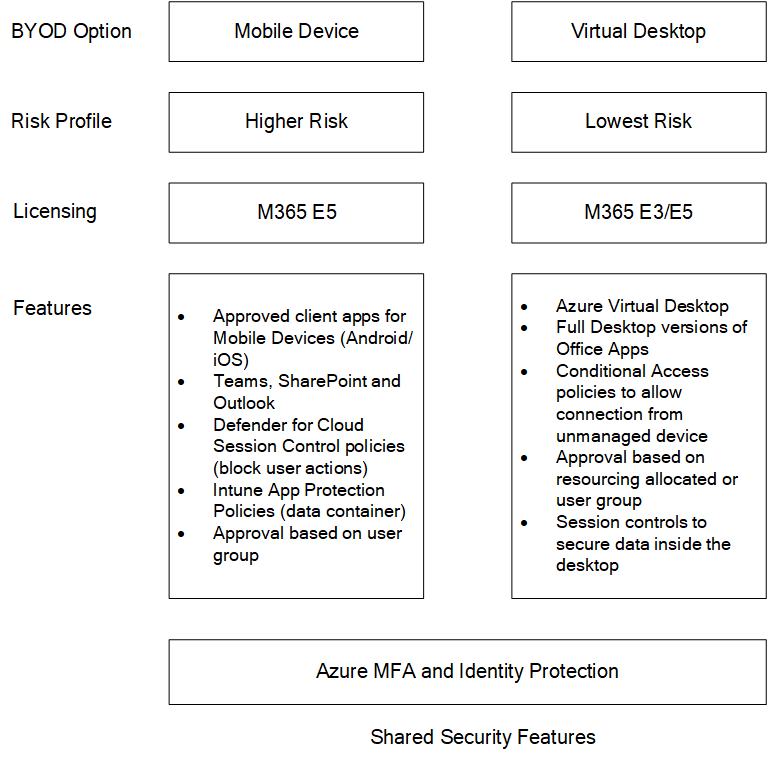
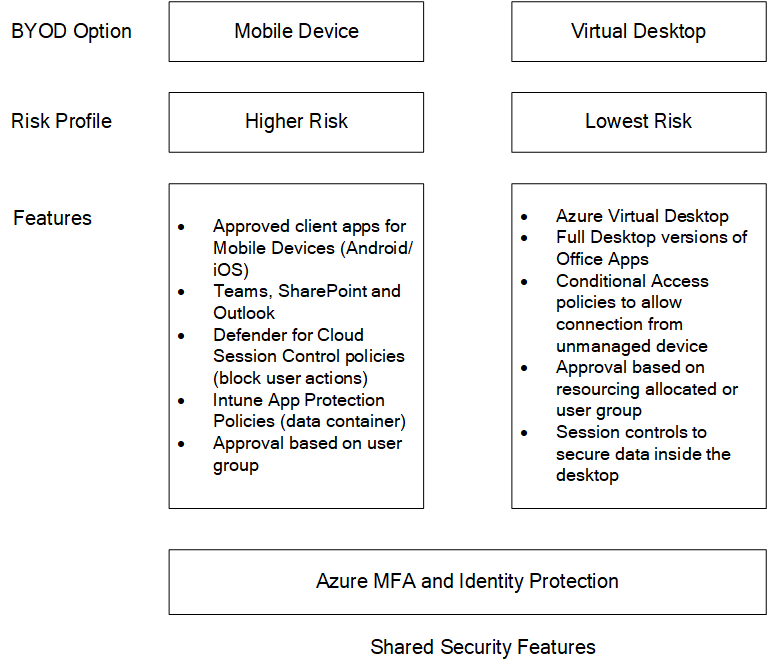
update based on DTA feedback

diff --git a/patterns/byod.md b/patterns/byod.md
@@ -22,7 +22,7 @@ This pattern suggests **two BYOD access options** dependent on the risk appetite
 
 Agencies adopting BYOD should perform their own risk assessments and follow ACSC guidance in regards to the requirements surrounding the platform and adequate separation between private and corporate data.
 
-It is not recommended to process or store sensitive data on non-corporately managed devices. For commonwealth entities, non-sensitive data is marked as OFFICIAL.
+It is not recommended to process or store sensitive or classified (OFFICIAL:Sensitive and above) data on non-corporately managed devices. For commonwealth entities, non-sensitive data is marked as OFFICIAL.
 
 This pattern does not discuss Agency policy surrounding the use of personally/privately-owed devices. The following guidance from the ACSC for OFFICIAL and PROTECTED BYOD implementation is:
 
@@ -36,16 +36,16 @@ The technical controls that are described in this document have been grouped int
 **Mobile device access**
 
 * Allows access to some Microsoft 365 applications from personal mobile devices
-* Granular control of user policies, session controls using Microsoft Defender for Cloud Apps when protecting browser apps (requires E5 license level)
-* Intune Application Protection policies to enforce secure containerisation for company data  (available at E3 license level)
+* Granular control of user policies, session controls using Microsoft Defender for Cloud Apps when protecting browser apps
+* Intune Application Protection policies to enforce secure containerisation for company data
 * Conditional Access enforced Agency approved apps for Mobile Devices
 * Suits personas for ad-hoc access to Teams, SharePoint and Outlook on Android and iOS phone or tablet devices
 * Agencies to risk assess for their environment and data classification
-* This BYOD option is not recommended for use cases involving access to sensitive information.
+* This BYOD option is not recommended for use cases involving access to sensitive or classified information.
 
 **Virtual desktop**
 
-* Available for use with Microsoft 365 E3 or E5 licensing levels (requires Azure subscription)
+* Azure virtual desktop requires an Azure subscription
 * Uses Azure Virtual Desktop (AVD) to provide a desktop experience that closely matches the corporate desktop, including legacy application access
 * Supports any client device able to access AVD
 * Lower security risk approach compared to mobile device, but offers greater use cases
@@ -59,12 +59,9 @@ The technical controls that are described in this document have been grouped int
 
 The following represent the assumptions when considering to deploy either BYOD options into an existing blueprint deployment:
 
-* Protected Utility blueprint deployed in a cloud-only or hybrid pattern.
-* For enhanced security, the mobile device option requires Defender for Cloud Apps, which requires Microsoft 365 E5.
-* Licensing is available for Windows 10 Enterprise multi-session, Windows 10 Enterprise and FSLogix profile management.
-  * Microsoft 365 E3, E5
-  * Windows E3, E5
-  * Azure subscription
+* Protected Utility blueprint deployed in a cloud-only or hybrid pattern
+* Licensing as per the DTA PROTECTED utility
+* Azure Virtual Desktop requires a suitable Azure subscription
 
 ## Prerequisites
 
@@ -88,8 +85,8 @@ Hybrid:
 
 Options | Use-Cases | Complexity to implement | Risk considerations 
 --- | --- | ---| ---
- Mobile device access (Option 1) | Provides ad-hoc access on the road and in the office to email, Teams and SharePoint from personally owned mobile devices such as iOS and Android devices. <br />Use-case provides some offline access if connectivity is limited.<br /><br />Not suitable for sensitive data. | Easiest             | Inability to enforce device security controls<br /><br />Limited ability to check compliance for zero trust<br /><br />Lost phone, potential inability to remote data wipe as phone is not fully managed 
- Virtual desktop (Option 2) | Provided through the Azure Virtual Desktop service, this provides a full Windows working environment similar to the corporate desktop. Access is available from a user's personal Windows or Mac device to access the virtual desktop.<br /><br />Remote working within another government Agency or partner environment.<br /><br />Legacy or non-cloud corporate applications (hybrid) can operate with this use-case.<br /><br />Use case requires always-on Internet connection. | More difficult | Greater compliance with PROTECTED-level ISM controls and the Essential Eight<br /><br />Underlying device used to access AVD, screen scraping and physical security 
+ Mobile device access (Option 1) | Provides ad-hoc access on the road and in the office to email, Teams and SharePoint from personally owned mobile devices such as iOS and Android devices. <br />Use-case provides some offline access if connectivity is limited.<br /><br />Not suitable for OFFICIAL:Sensitve and above (sensitive or classified data). | Easiest             | Inability to enforce device security controls<br /><br />Limited ability to check compliance for zero trust<br /><br />Lost phone, potential inability to remote data wipe as phone is not fully managed 
+ Virtual desktop (Option 2) | Provided through the Azure Virtual Desktop service, this provides a full Windows working environment similar to the corporate desktop. Access is available from a user's personal Windows or Mac device to access the virtual desktop.<br /><br />Remote working within another government Agency or partner environment.<br /><br />Legacy or non-cloud corporate applications (hybrid) can operate with this use-case.<br /><br />Use case requires always-on Internet connection. | More difficult | Greater compliance with PROTECTED-level ISM controls and the Essential Eight<br /><br />Screen shot/scraping and physical security (e.g. taking picture of the screen) is a residual risk 
 
 The following process can be followed to determine which pattern option to follow.
 
@@ -126,13 +123,13 @@ Note, refer to the [System Security Plan](https://desktop.gov.au/blueprint/secur
 | 0705    | When accessing an organisation system via a VPN connection, split tunnelling is disabled. | Not applicable                                               | Not applicable                                               |
 | 1082    | A mobile device usage policy is developed and implemented.   | Agency to address                                            | Agency to address                                            |
 | 1083    | Personnel are advised of the sensitivity or classification permitted for voice and data communications when using mobile devices. | Agency to address                                            | Agency to address                                            |
-| 0240    | Paging, Multimedia Message Service, Short Message Service or instant messaging apps are not used to communicate sensitive or classified data. | Implemented                                                  | Not applicable                                               |
+| 0240    | Paging, Multimedia Message Service, Short Message Service or instant messaging apps are not used to communicate sensitive or classified data. | Implemented through MAM-WE, cannot share data with native apps | Not applicable                                               |
 | 0866    | Sensitive or classified data is not viewed or communicated in public locations unless care is taken to reduce the chance of the screen of a mobile device being observed. | Agency to address                                            | Agency to address                                            |
 | 1644    | Sensitive or classified phone calls are not conducted in public locations unless care is taken to reduce the chance of conversations being overheard. | Agency to address                                            | Agency to address                                            |
 | 0871    | Mobile devices are kept under continual direct supervision when being actively used. | Agency to address                                            | Agency to address                                            |
 | 0870    | Mobile devices are carried or stored in a secured state when not being actively used. | Agency to address<br />Protection via inactivity lockouts is implemented | Agency to address<br />Protection via inactivity lockouts is implemented |
-| 1084    | If unable to apply encryption to mobile devices that is suitable for them to be carried through areas not authorised to process the data stored on them, they are physically transferred in a security briefcase or an approved multi-use satchel, pouch or transit bag. | Implemented (data is encrypted in container and protected via credential) | Not applicable (data not stored outside of AVD session)      |
-| 0701    | A mobile device emergency sanitisation process, and supporting mobile device emergency sanitisation procedures, is developed and implemented. | Agency to develop SOP to selectively wipe container when required | Not applicable, no data on mobile device                     |
+| 1084    | If unable to apply encryption to mobile devices that is suitable for them to be carried through areas not authorised to process the data stored on them, they are physically transferred in a security briefcase or an approved multi-use satchel, pouch or transit bag. | Implemented (data is encrypted in container and protected via credential) | Data not stored outside of AVD session but screenshot to physical device is possible |
+| 0701    | A mobile device emergency sanitisation process, and supporting mobile device emergency sanitisation procedures, is developed and implemented. | Agency to develop SOP to selectively wipe container when required. Refer to [How to Selective Wipe](https://docs.microsoft.com/en-us/mem/intune/apps/apps-selective-wipe) | Not applicable, no data on mobile device                     |
 | 1298    | Personnel are advised of privacy and security risks when travelling overseas with mobile devices. | Agency to address                                            | Not applicable                                               |
 | 1554    | If travelling overseas with mobile devices to high/extreme risk countries, personnel are:<br />issued with newly provisioned accounts and devices from a pool of dedicated travel devices which are - used solely for work-related activities<br />- advised on how to apply and inspect tamper seals to key areas of devices<br />- advised to avoid taking any personal devices, especially if rooted or jailbroken. | Agency to address, MAM policy to prevent jailbreak/rooted    | Not applicable                                               |
 | 1555    | Before travelling overseas with mobile devices, personnel take the following actions:<br />- record all details of the devices being taken, such as product types, serial numbers and International Mobile Equipment Identity numbers<br />- update all applications and operating systems<br />- remove all non-essential accounts, applications and data<br />- apply security configuration settings, such as lock screens<br />- configure remote locate and wipe functionality<br />- enable encryption, including for any media used<br />- backup all important data and configuration settings. | Agency to address<br /> Selective wipe available when required<br />O/S version control available<br />Screenlock and mandatory passcodes enforced with MFA | Not applicable                                               |
@@ -461,7 +458,7 @@ The following updates are required for managed application on iOS and Android.
 | PIN for access                                           | Require                                                      |
 | PIN type                                                 | Passcode                                                     |
 | Simple PIN                                               | Block                                                        |
-| Select minimum PIN length                                | 8                                                            |
+| Select minimum PIN length                                | 14                                                           |
 | Touch ID instead of PIN for access                       | Allow                                                        |
 | Override biometrics with PIN after timeout               | Require                                                      |
 | Timeout                                                  | 30 minutes                                                   |
@@ -475,7 +472,7 @@ The following updates are required for managed application on iOS and Android.
 | Offline grace period                                     | 720 minutes (Block access)                                   |
 | Offline grace period                                     | 30 days  (Wipe data)                                         |
 | Jailbroken/rooted devices                                | Block access                                                 |
-| Min OS version                                           | 14.0 (Block access)                                          |
+| Min OS version                                           | 15.0 (Block access)<br />Note: define latest version at time of configure |
 | Disabled account                                         | Block access                                                 |
 | **Assignments**                                          |                                                              |
 | Included groups                                          | rol-Agency-MAMUsers                                          |
@@ -526,7 +523,7 @@ The following updates are required for managed application on iOS and Android.
 | Offline grace period                                     | 720 minutes (Block access)                                   |
 | Offline grace period                                     | 30 days  (Wipe data)                                         |
 | Jailbroken/rooted devices                                | Block access                                                 |
-| Min OS version                                           | 12.0 (Block access)                                          |
+| Min OS version                                           | 12.0 (Block access)<br />Note: define latest version at time of configure |
 | Disabled account                                         | Block access                                                 |
 | **Assignments**                                          |                                                              |
 | Included groups                                          | rol-Agency-MAMUsers                                          |
